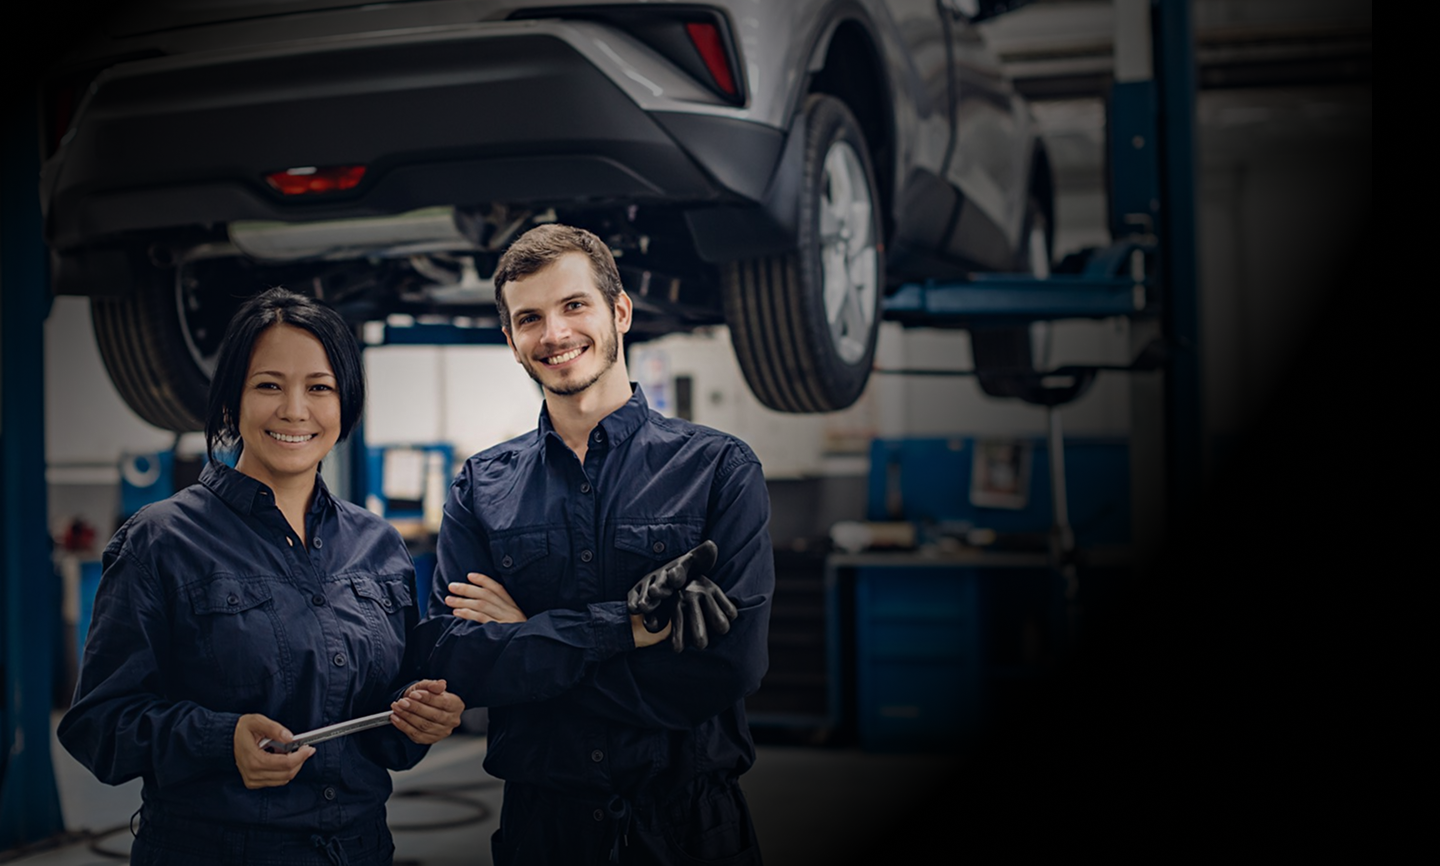
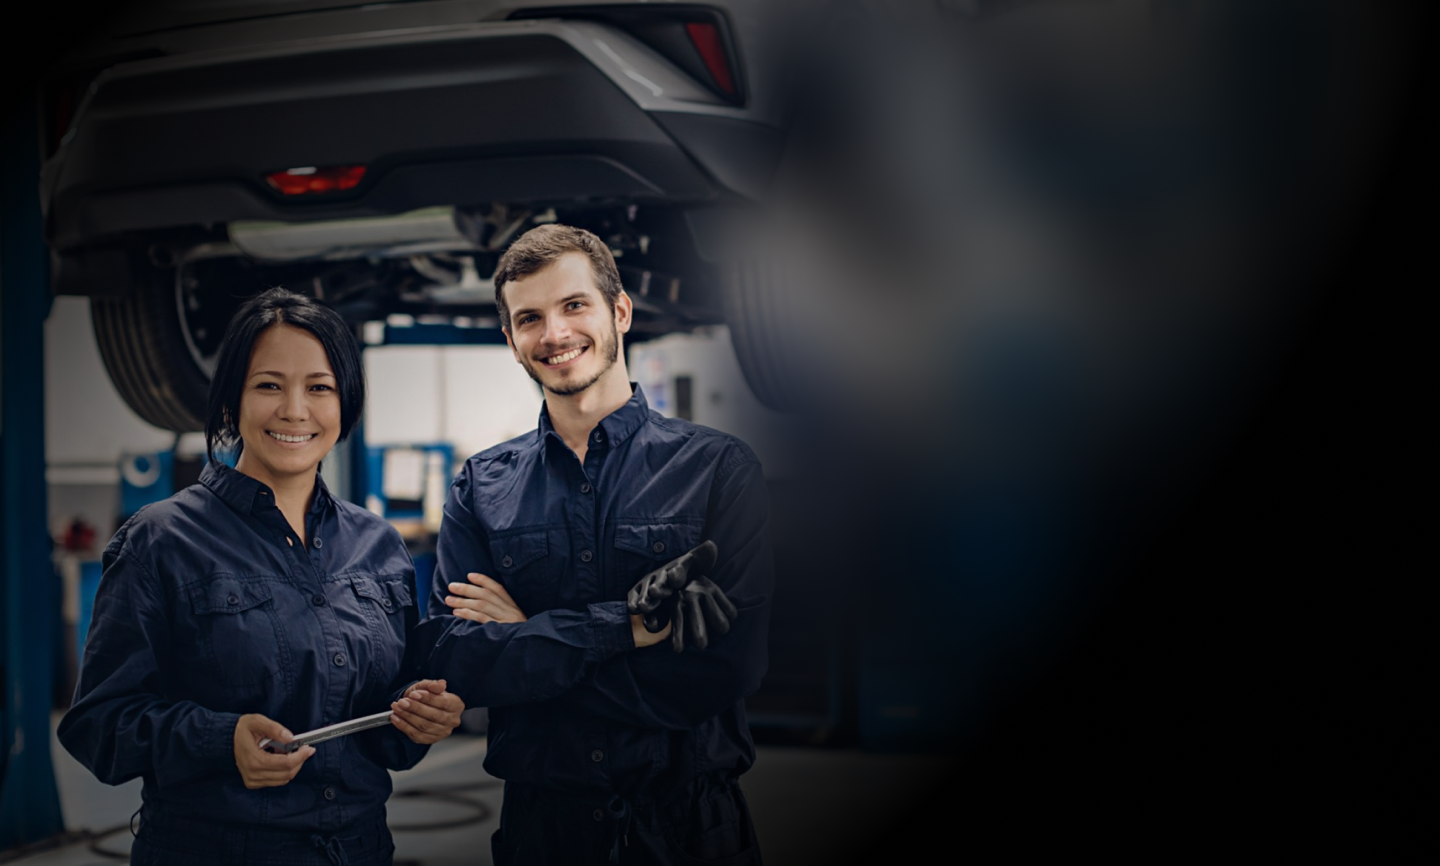
first commit 4

Changed region(s): [[0.4688, 0.0, 0.875, 0.7171], [0.5938, 0.6859, 0.6562, 0.7483]]

diff --git a/css/style.css b/css/style.css
@@ -30,6 +30,11 @@ button {
 img {
   width: 100%;
 }
+select option {
+  background-color: #fff;
+  color: #000;
+  padding: 10px;
+}
 /* Header */
 .main-header {
 }
@@ -152,7 +157,7 @@ img {
 .form-control,
 .form-select {
   border: none;
-  padding: 0;
+  padding: 10px;
   box-shadow: none !important;
   color: rgba(1, 1, 1, 1);
   font-size: 18px;
@@ -161,7 +166,7 @@ img {
 .form-control:focus,
 .form-select:focus {
   border: none;
-  padding: 0;
+  padding: 10px;
   box-shadow: none !important;
   color: rgba(1, 1, 1, 1);
   font-size: 18px;
@@ -186,22 +191,6 @@ img {
   background-color: #cc0000;
 }
 
-@media (max-width: 768px) {
-  .filter-box {
-    width: 100%;
-  }
-
-  .search-button {
-    width: 100%;
-    margin-left: 0;
-  }
-
-  .filter-container {
-    flex-direction: column;
-    align-items: stretch;
-  }
-}
-
 /* request-tool-section */
 .request-tool-section {
   margin-top: 80px;
@@ -212,13 +201,12 @@ img {
   background-repeat: no-repeat;
 }
 .parts-form-wrapper {
-  min-height: 100vh;
   display: flex;
   justify-content: center;
   align-items: center;
 }
 .request-tool-section .request-tool-inner {
-  backdrop-filter: blur(10px);
+  /* backdrop-filter: blur(10px); */
   padding: 60px 40px;
 }
 
@@ -314,25 +302,35 @@ img {
 }
 .parts-select {
   border-radius: 10px;
-  padding: 18px 20px 18px 48px; /* Extra left padding for arrow */
+  padding: 16px 48px 16px 20px;
   border: none;
-  box-shadow: none;
-  width: 100%;
+  box-shadow: 0px 4px 45px rgba(120, 123, 146, 0.15);
   font-size: 18px;
-  color: rgba(1, 1, 1, 1);
+  color: #000;
+  background-color: #fff;
+  background-image: url("..//img/arrow-circle-down.svg");
+  background-repeat: no-repeat;
+  background-position: right 16px center;
+  background-size: 30px 30px;
   appearance: none;
   -webkit-appearance: none;
   -moz-appearance: none;
-  background: url("..//img/arrow-circle-down.svg") no-repeat right 16px center;
-  background-size: 30px 30px;
-  background-color: white; /* or your preferred background */
+}
+.parts-select option:disabled {
+  color: #748498;
 }
 /* workshop-finder */
 .workshop-finder {
   padding: 80px 0;
   background: #fff;
 }
-
+.workshop-finder .header-area {
+  display: flex;
+  justify-content: space-between;
+  align-items: center;
+  align-items: flex-start;
+  gap: 16px;
+}
 .title {
   font-weight: 700;
   font-size: 54px;
@@ -372,7 +370,9 @@ img {
   box-shadow: 0px 4px 45px 0px rgba(120, 123, 146, 0.15);
   color: rgba(1, 1, 1, 1);
 }
-
+.custom-select:focus {
+  outline: none;
+}
 .search-btn {
   font-size: 16px;
   padding: 14px 24px;
@@ -624,4 +624,177 @@ img {
 
 .footer-bottom a {
   color: rgba(255, 255, 255, 1);
+}
+/*  */
+@media only screen and (max-width: 1024px) {
+  .main-header .navbar-brand {
+    width: 140px;
+  }
+  .platform-steps p {
+    font-size: 28px;
+    font-family: AdventPro-Bold;
+  }
+}
+@media only screen and (max-width: 991px) {
+  .main-header .navbar .navbar-toggler {
+    width: 60px;
+  }
+  .main-header .header-btn {
+    gap: 14px;
+    display: flex;
+    flex-wrap: wrap;
+    flex-direction: row;
+    justify-content: flex-end;
+    position: absolute;
+    right: 0;
+  }
+  .filter-box {
+    width: 48%;
+  }
+
+  .filter-container {
+    flex-direction: column;
+    align-items: stretch;
+  }
+  .workshop-finder .header-area {
+    display: block;
+  }
+  .workshop-finder .header-area .text-area {
+    text-align: center;
+  }
+  .workshop-finder .header-area .form-area {
+    margin-top: 20px;
+  }
+  .workshop-finder .header-area .form-area .custom-select {
+    width: 100%;
+  }
+  .workshop-finder,
+  .platform-steps {
+    padding: 40px 0px;
+  }
+  .marketplace-section::after {
+    content: none;
+  }
+  .marketplace-section .text-box {
+    text-align: center;
+  }
+  .marketplace-section .text-box h2 {
+    color: #000;
+  }
+  .marketplace-section .text-box p {
+    color: #000;
+  }
+  .marketplace-section .text-box .register-btn {
+    display: block;
+    margin: 20px auto 20px;
+  }
+  .bg-red,
+  .bg-orange {
+    margin-bottom: 30px;
+  }
+  .step-circle {
+    width: 50px;
+    height: 50px;
+    font-size: 28px;
+  }
+  .platform-steps p {
+    font-size: 18px;
+  }
+  .highlighted-section {
+    padding: 40px 0px;
+  }
+}
+@media only screen and (max-width: 767px) {
+  .hero-section .hero-inner-section {
+    padding: 30px 0px;
+  }
+  .filter-box {
+    width: 100%;
+  }
+
+  .search-button {
+    width: 100%;
+    margin-left: 0;
+  }
+  .object-fit-cover {
+    margin-top: 30px;
+  }
+  .platform-steps h2 {
+    margin-bottom: 30px;
+  }
+  .highlight-main-wrap {
+    flex-wrap: wrap;
+    gap: 16px;
+    justify-content: space-around;
+  }
+  .highlight-main-wrap .highlight-inner {
+    width: 48%;
+  }
+  .highlight-card {
+    height: 320px;
+  }
+  .request-tool-section .request-tool-inner .request-tool-head h2,
+  .title,
+  .marketplace-section .text-box h2,
+  .platform-steps h2,
+  .highlighted-section h2 {
+    font-size: 38px;
+  }
+}
+@media only screen and (max-width: 525px) {
+  .hero-section .hero-inner-section h1 {
+    font-size: 44px;
+  }
+  .highlight-main-wrap .highlight-inner {
+    width: 45%;
+  }
+  .request-tool-section .request-tool-inner .request-tool-head h2,
+  .title,
+  .marketplace-section .text-box h2,
+  .platform-steps h2,
+  .highlighted-section h2 {
+    font-size: 30px;
+  }
+  .request-tool-section .request-tool-inner {
+    padding: 60px 20px;
+  }
+  .custom-select {
+    padding: 15px 10px;
+    min-height: 60px;
+    min-width: 70px;
+    font-size: 14px;
+  }
+  .footer-links {
+    margin: 30px 0px;
+  }
+  .footer-links a {
+    line-height: 50px;
+  }
+}
+@media only screen and (max-width: 375px) {
+  .request-tool-section .request-tool-inner {
+    padding: 40px 10px;
+  }
+  .request-tool-section .request-tool-inner .request-tool-head h2,
+  .title,
+  .marketplace-section .text-box h2,
+  .platform-steps h2,
+  .highlighted-section h2 {
+    font-size: 24px;
+  }
+  .bg-red {
+    padding: 20px 20px 0px 20px;
+    overflow: hidden;
+  }
+  .bg-orange {
+    padding: 20px 20px 0px 20px;
+    overflow: hidden;
+  }
+  .bg-yellow {
+    padding: 20px 20px 0px 20px;
+    overflow: hidden;
+  }
+  .highlight-card {
+    height: 230px;
+  }
 }

diff --git a/index.html b/index.html
@@ -3,7 +3,10 @@
   <head>
     <meta charset="UTF-8" />
     <meta http-equiv="X-UA-Compatible" content="IE=edge" />
-    <meta name="viewport" content="width=device-width, initial-scale=1.0" />
+    <meta
+      name="viewport"
+      content="width=device-width, initial-scale=1.0, maximum-scale=1.0, user-scalable=no"
+    />
     <title>Repuestos - Home</title>
     <link rel="stylesheet" href="css/all.min.css" />
     <link rel="stylesheet" href="css/bootstrap.min.css" />
@@ -179,12 +182,18 @@
                   <div class="row g-3 mb-3">
                     <div class="col">
                       <select class="parts-select">
-                        <option selected>Brand</option>
+                        <option disabled selected>Brand</option>
+                        <option>Samsung</option>
+                        <option>Apple</option>
+                        <option>Vivo</option>
                       </select>
                     </div>
                     <div class="col">
                       <select class="parts-select">
-                        <option selected>Model</option>
+                        <option disabled selected>Model</option>
+                        <option>Samsung</option>
+                        <option>Apple</option>
+                        <option>Vivo</option>
                       </select>
                     </div>
                   </div>
@@ -193,12 +202,17 @@
                   <div class="row g-3 mb-3">
                     <div class="col">
                       <select class="parts-select">
-                        <option selected>City</option>
+                        <option disabled selected>City</option>
+                        <option>Ahmedabad</option>
+                        <option>Surat</option>
                       </select>
                     </div>
                     <div class="col">
                       <select class="parts-select">
-                        <option selected>Year</option>
+                        <option disabled selected>Year</option>
+                        <option>2024</option>
+                        <option>2023</option>
+                        <option>2022</option>
                       </select>
                     </div>
                   </div>
@@ -206,7 +220,10 @@
                   <!-- Part Name -->
                   <div class="mb-3">
                     <select class="parts-select">
-                      <option selected>Enter Part Name</option>
+                      <option disabled selected>Enter Part Name</option>
+                      <option>Samsung</option>
+                      <option>Apple</option>
+                      <option>Vivo</option>
                     </select>
                   </div>
 
@@ -236,9 +253,7 @@
     <!-- workshop-finder -->
     <section class="workshop-finder">
       <div class="container">
-        <div
-          class="header-area d-flex justify-content-between align-items-center flex-wrap"
-        >
+        <div class="header-area">
           <div class="text-area">
             <h2 class="title">Workshop Finder</h2>
             <p class="subtitle">
@@ -248,12 +263,12 @@
 
           <form class="form-area">
             <select class="custom-select">
-              <option selected>City</option>
+              <option disabled selected>City</option>
               <option>Ahmedabad</option>
               <option>Surat</option>
             </select>
             <select class="custom-select">
-              <option selected>Specialty</option>
+              <option disabled selected>Specialty</option>
               <option>Engine</option>
               <option>Tyres</option>
             </select>
